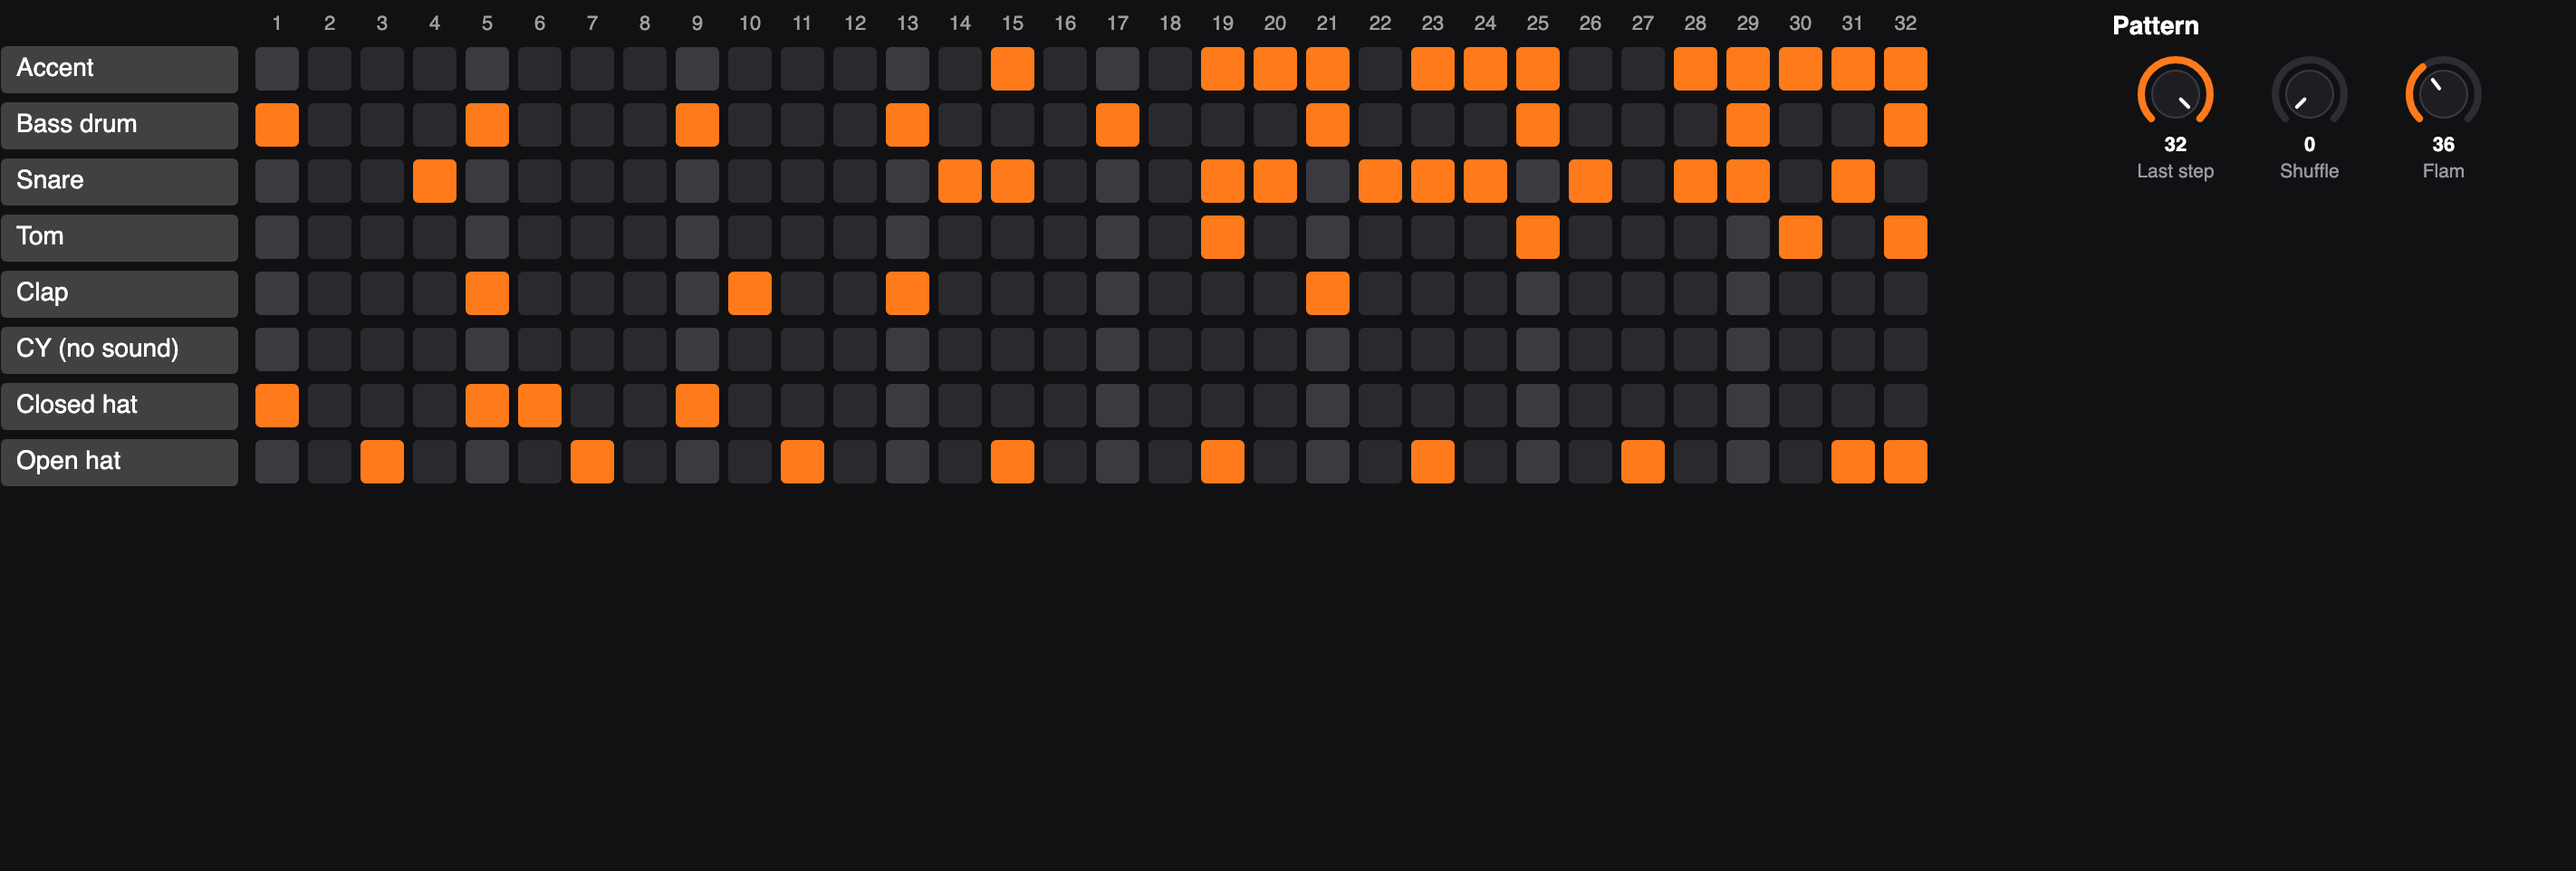
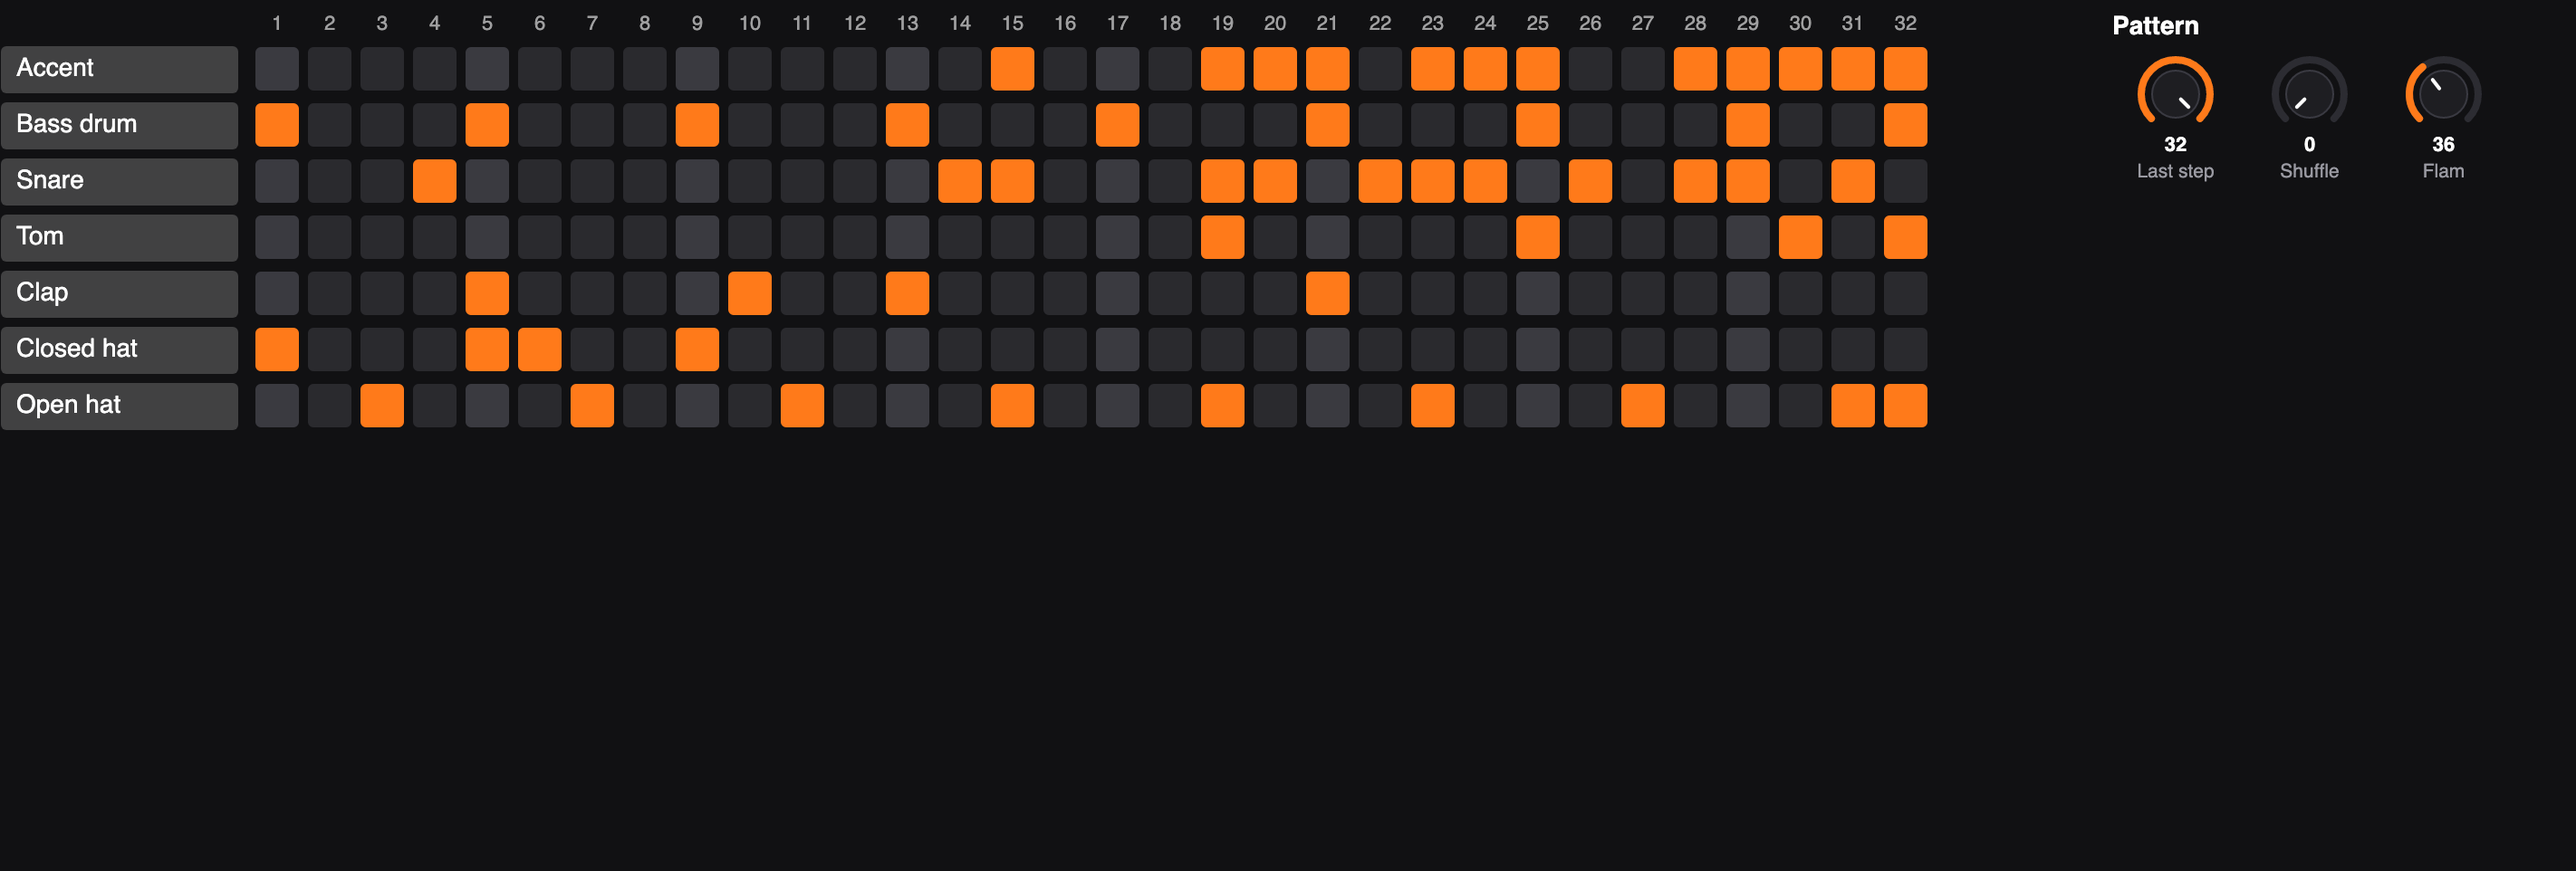
Hide the CY row in the rhythm grid
CY is a cymbal slot in the T-8's pattern files with no sound on the
T-8, so the grid now shows the seven tracks that play. CY's steps are
still kept in the pattern, so files load and save unchanged.

Changed region(s): [[0.0, 0.3742, 0.7736, 0.5613], [0.0, 0.3742, 0.0619, 0.4054]]

diff --git a/src/T8.Editor/ViewModels/RhythmEditorViewModel.cs b/src/T8.Editor/ViewModels/RhythmEditorViewModel.cs
@@ -18,11 +18,20 @@ public sealed partial class RhythmEditorViewModel : ObservableObject
     {
         _pattern = pattern;
         _changed = changed;
-        Tracks = new ObservableCollection<RhythmTrackViewModel>(
-            Enum.GetValues<RhythmTrack>().Select(track => new RhythmTrackViewModel(track, pattern, this, changed, audition)));
+        _allTracks = Enum.GetValues<RhythmTrack>()
+            .Select(track => new RhythmTrackViewModel(track, pattern, this, changed, audition))
+            .ToList();
+        Tracks = new ObservableCollection<RhythmTrackViewModel>(_allTracks.Where(t => t.Track != RhythmTrack.CY));
         UpdateLength();
     }
 
+    /// <summary>All eight tracks in file order, including CY.</summary>
+    private readonly List<RhythmTrackViewModel> _allTracks;
+
+    /// <summary>
+    /// The tracks shown in the grid: all but CY, a cymbal slot in the T-8's files with no sound on the
+    /// T-8. CY's steps are still kept in the pattern, so files load and save unchanged.
+    /// </summary>
     public ObservableCollection<RhythmTrackViewModel> Tracks { get; }
 
     public static IReadOnlyList<SubStep> SubStepOptions { get; } = Enum.GetValues<SubStep>();
@@ -32,7 +41,7 @@ public sealed partial class RhythmEditorViewModel : ObservableObject
     /// <summary>Re-reads every cell after the pattern was changed outside the editor (generate, undo).</summary>
     public void Refresh()
     {
-        foreach (var track in Tracks)
+        foreach (var track in _allTracks)
         {
             foreach (var cell in track.Cells)
                 cell.Refresh();
@@ -70,7 +79,7 @@ public sealed partial class RhythmEditorViewModel : ObservableObject
         set => SetPatternValue(_pattern.Flam, Math.Clamp(value, 0, 100), v => _pattern.Flam = v);
     }
 
-    public RhythmTrackViewModel this[RhythmTrack track] => Tracks[(int)track];
+    public RhythmTrackViewModel this[RhythmTrack track] => _allTracks[(int)track];
 
     [RelayCommand]
     private void ClearTrack(RhythmTrackViewModel track)

diff --git a/tests/T8.Editor.Tests/RhythmEditorViewModelTests.cs b/tests/T8.Editor.Tests/RhythmEditorViewModelTests.cs
@@ -12,10 +12,10 @@ public class RhythmEditorViewModelTests
     private RhythmEditorViewModel Create() => new(_pattern, () => _changes++, _auditioned.Add);
 
     [Fact]
-    public void Grid_has_8_tracks_of_32_steps_in_file_order()
+    public void Grid_shows_the_7_tracks_with_a_sound_in_file_order()
     {
         var vm = Create();
-        Assert.Equal(Enum.GetValues<RhythmTrack>(), vm.Tracks.Select(t => t.Track));
+        Assert.Equal(Enum.GetValues<RhythmTrack>().Where(t => t != RhythmTrack.CY), vm.Tracks.Select(t => t.Track));
         Assert.All(vm.Tracks, t => Assert.Equal(32, t.Cells.Count));
         Assert.Equal("Tom", vm[RhythmTrack.LT].Name);
         Assert.Equal("Clap", vm[RhythmTrack.HT].Name);
@@ -153,5 +153,17 @@ public class RhythmEditorViewModelTests
         vm.ShowPlayingStep(null);
         Assert.Null(vm.PlayingStepNumber);
         Assert.DoesNotContain(vm.Tracks.SelectMany(t => t.Cells), c => c.IsPlaying);
+    }
+
+    [Fact]
+    public void Cy_is_hidden_but_its_steps_are_kept()
+    {
+        _pattern.Steps[3][RhythmTrack.CY].On = true;
+        var vm = Create();
+
+        Assert.DoesNotContain(vm.Tracks, t => t.Track == RhythmTrack.CY);
+        Assert.Equal(7, vm.Tracks.Count);
+        Assert.True(vm[RhythmTrack.CY].Cells[3].On);
+        Assert.Equal(RhythmTrack.OH, vm[RhythmTrack.OH].Track);
     }
 }

diff --git a/tests/T8.Editor.Tests/MainWindowTests.cs b/tests/T8.Editor.Tests/MainWindowTests.cs
@@ -30,7 +30,8 @@ public class MainWindowTests
 
         Assert.Equal("Roland Aira Compact T-8 Editor - v1.0 - BACKUP", window.Title);
         Assert.Contains("Loaded 64 patterns", window.FindControl<TextBlock>("StatusText")!.Text);
-        Assert.Equal(8, window.GetVisualDescendants().OfType<RhythmEditorView>().Single()
+        // CY has no sound on the T-8, so its row is hidden.
+        Assert.Equal(7, window.GetVisualDescendants().OfType<RhythmEditorView>().Single()
             .FindControl<ItemsControl>("TrackRows")!.ItemCount);
         window.Close();
         vm.Dispose();
@@ -42,7 +43,7 @@ public class MainWindowTests
         var (window, vm) = Show();
 
         var cells = window.GetVisualDescendants().OfType<ToggleButton>().Where(t => t.Classes.Contains("cell")).ToList();
-        Assert.Equal(8 * 32, cells.Count);
+        Assert.Equal(7 * 32, cells.Count); // CY is hidden
 
         var bdStep1 = cells[(int)RhythmTrack.BD * 32];
         Assert.Equal(vm.CurrentRhythm.Steps[0][RhythmTrack.BD].On, bdStep1.IsChecked);

diff --git a/README.md b/README.md
@@ -117,9 +117,9 @@ Double-click a knob to put it back to its default.
 
 ![The rhythm grid and the step inspector](docs/images/rhythm-editor.png)
 
-Each row is one of the T-8's tracks: Accent, Bass drum, Snare, Tom, Clap, CY, Closed hat and Open hat. CY is a
-cymbal slot that the T-8's pattern files have, but the T-8 has no cymbal sound, so it never plays; the editor keeps
-whatever is in it so files round-trip unchanged, and the generators leave it empty. Each column is one of 32 steps; the brighter columns are the beats.
+Each row is one of the T-8's tracks: Accent, Bass drum, Snare, Tom, Clap, Closed hat and Open hat. (The T-8's
+pattern files also have a CY cymbal track, but the T-8 has no cymbal sound, so the editor hides it; anything
+stored in it is kept when you save.) Each column is one of 32 steps; the brighter columns are the beats.
 
 - Click a cell to turn it on or off. The cell you clicked is outlined in white and shown in the inspector on
   the right.
